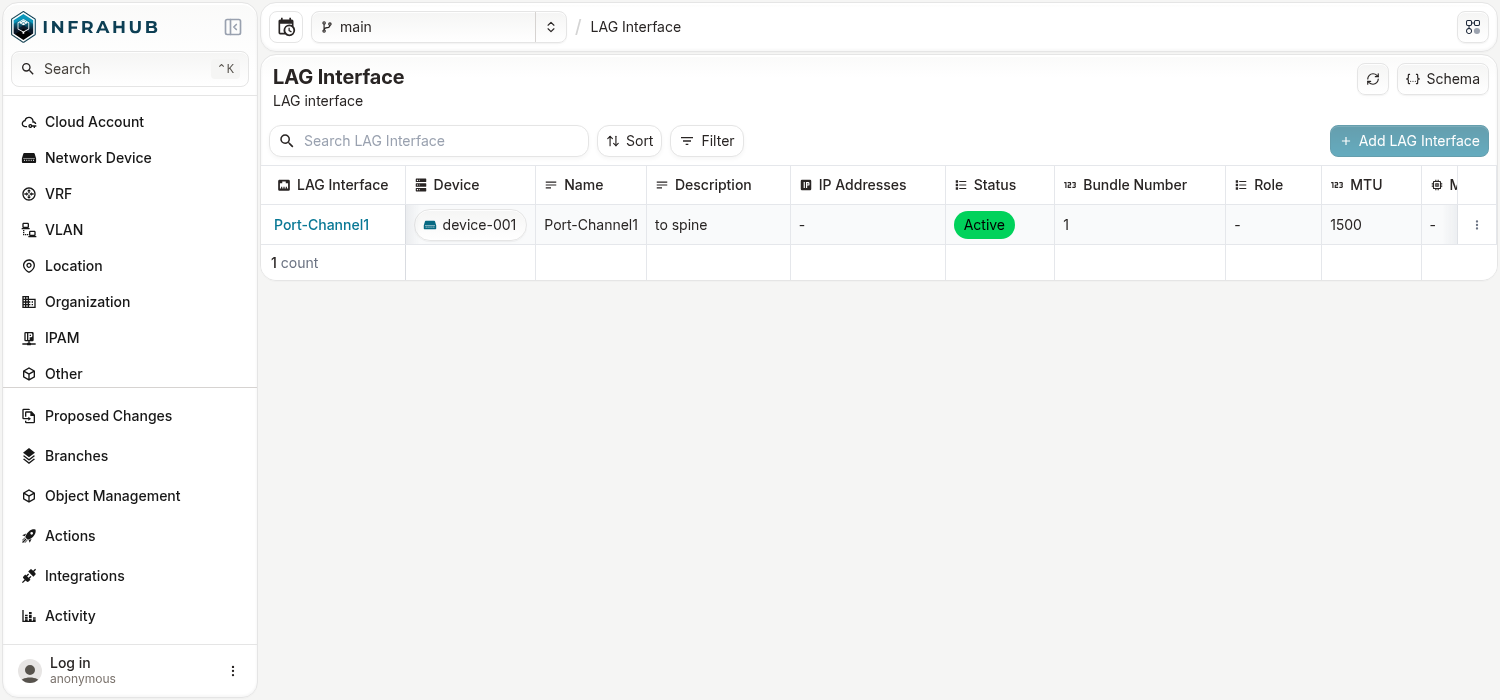
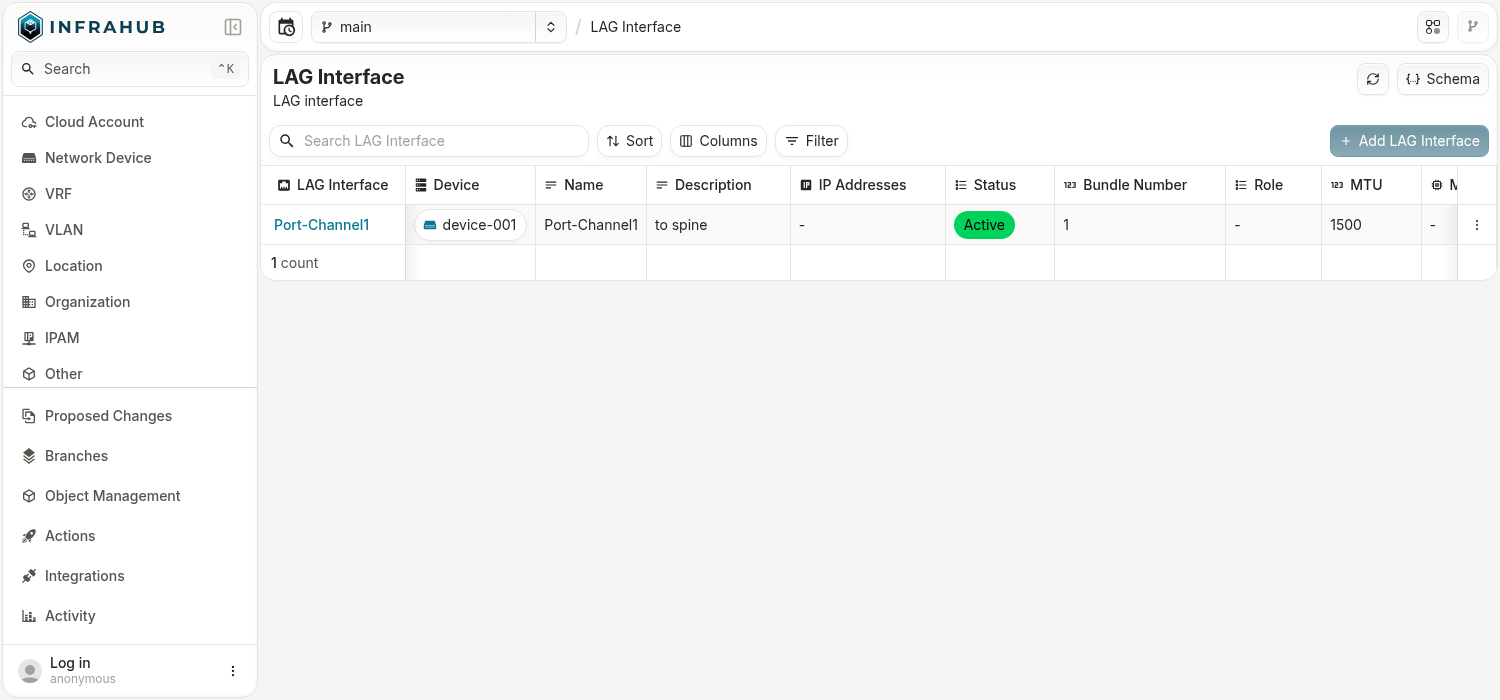
release: 0.1.0a4
Infrahub 1.12.1 verification, infrahub-sdk 1.24.0, and the Infrahub screenshots
retaken on 1.12.1.

Verified: uv run pytest -q -W error::UserWarning, 253 passed; mypy and ruff
clean; uv build produces forward_infrahub-0.1.0a4 sdist and wheel;
forward-infrahub --version prints 0.1.0a4; every README image exists; all
Infrahub images retaken from a fixture-only Infrahub 1.12.1 after a fresh apply.

Claude-Session: https://claude.ai/code/session_013j43V5iV3QR2eYMAZY7m1E

diff --git a/src/forward_infrahub/__init__.py b/src/forward_infrahub/__init__.py
@@ -1,3 +1,3 @@
 """Forward Networks source adapter for infrahub-sync."""
 
-__version__ = "0.1.0a3"
+__version__ = "0.1.0a4"

diff --git a/README.md b/README.md
@@ -176,8 +176,8 @@ has the full `config.yml`, the schema, and the load steps.
 
 ## Screenshots
 
-Every kind this sync writes, as it appears in Infrahub after the fixture demo
-above, and the terminal side of the workflow. The Infrahub pages and the first
+Every kind this sync writes, as it appears in Infrahub 1.12.1 after the fixture
+demo above, and the terminal side of the workflow. The Infrahub pages and the first
 three terminal images are of the bundled fixture, a small fake network. The diff
 verification image is real output from a Forward demo network, with the network
 and snapshot ids left out.

diff --git a/CHANGELOG.md b/CHANGELOG.md
@@ -2,6 +2,8 @@
 
 ## [Unreleased]
 
+## [0.1.0a4] - 2026-11-18
+
 ### Changed
 
 - Verified against Infrahub 1.12.1 as well as 1.11.9, with the same results: the
@@ -10,7 +12,8 @@
   153, and a second plan finds nothing to do. A hand-deleted object and a
   hand-edited description were repaired by one plan and apply. infrahub-sdk is
   locked at 1.24.0 (from 1.22.3), and the tests and live runs above were repeated
-  on it.
+  on it. The Infrahub screenshots were retaken on 1.12.1, whose pages gained a
+  Columns button and a branch icon.
 
 ## [0.1.0a3] - 2026-11-18
 
